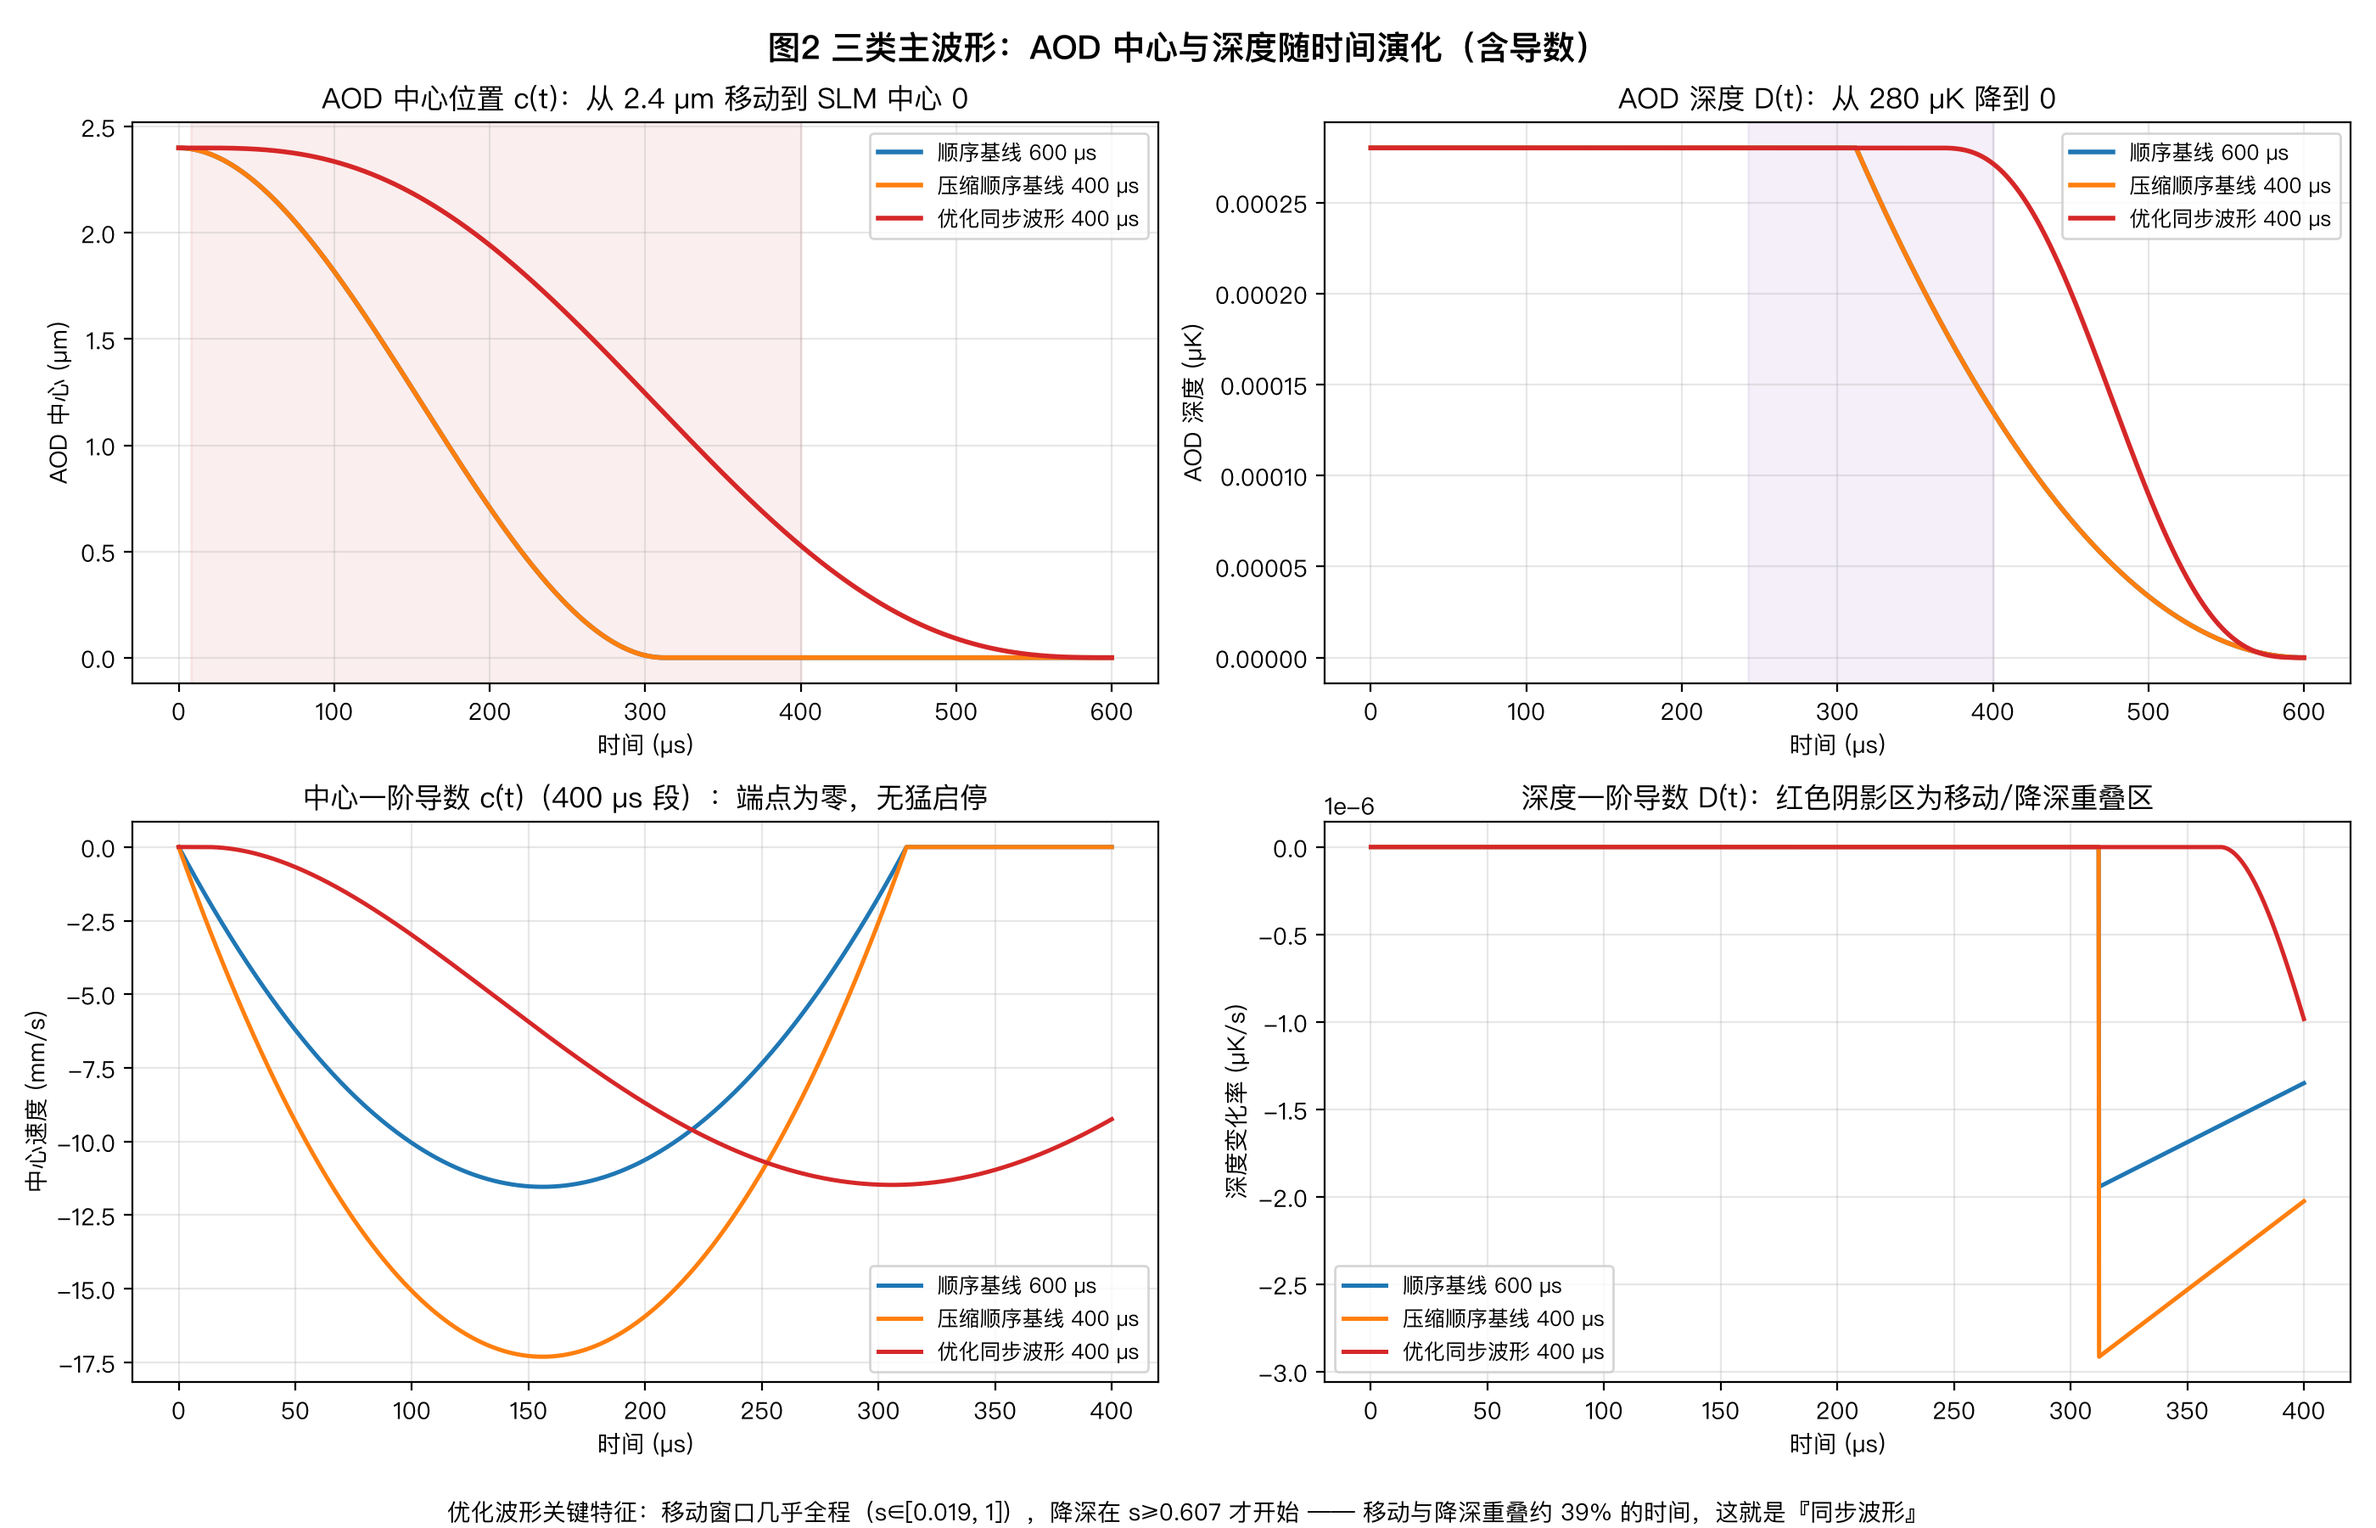
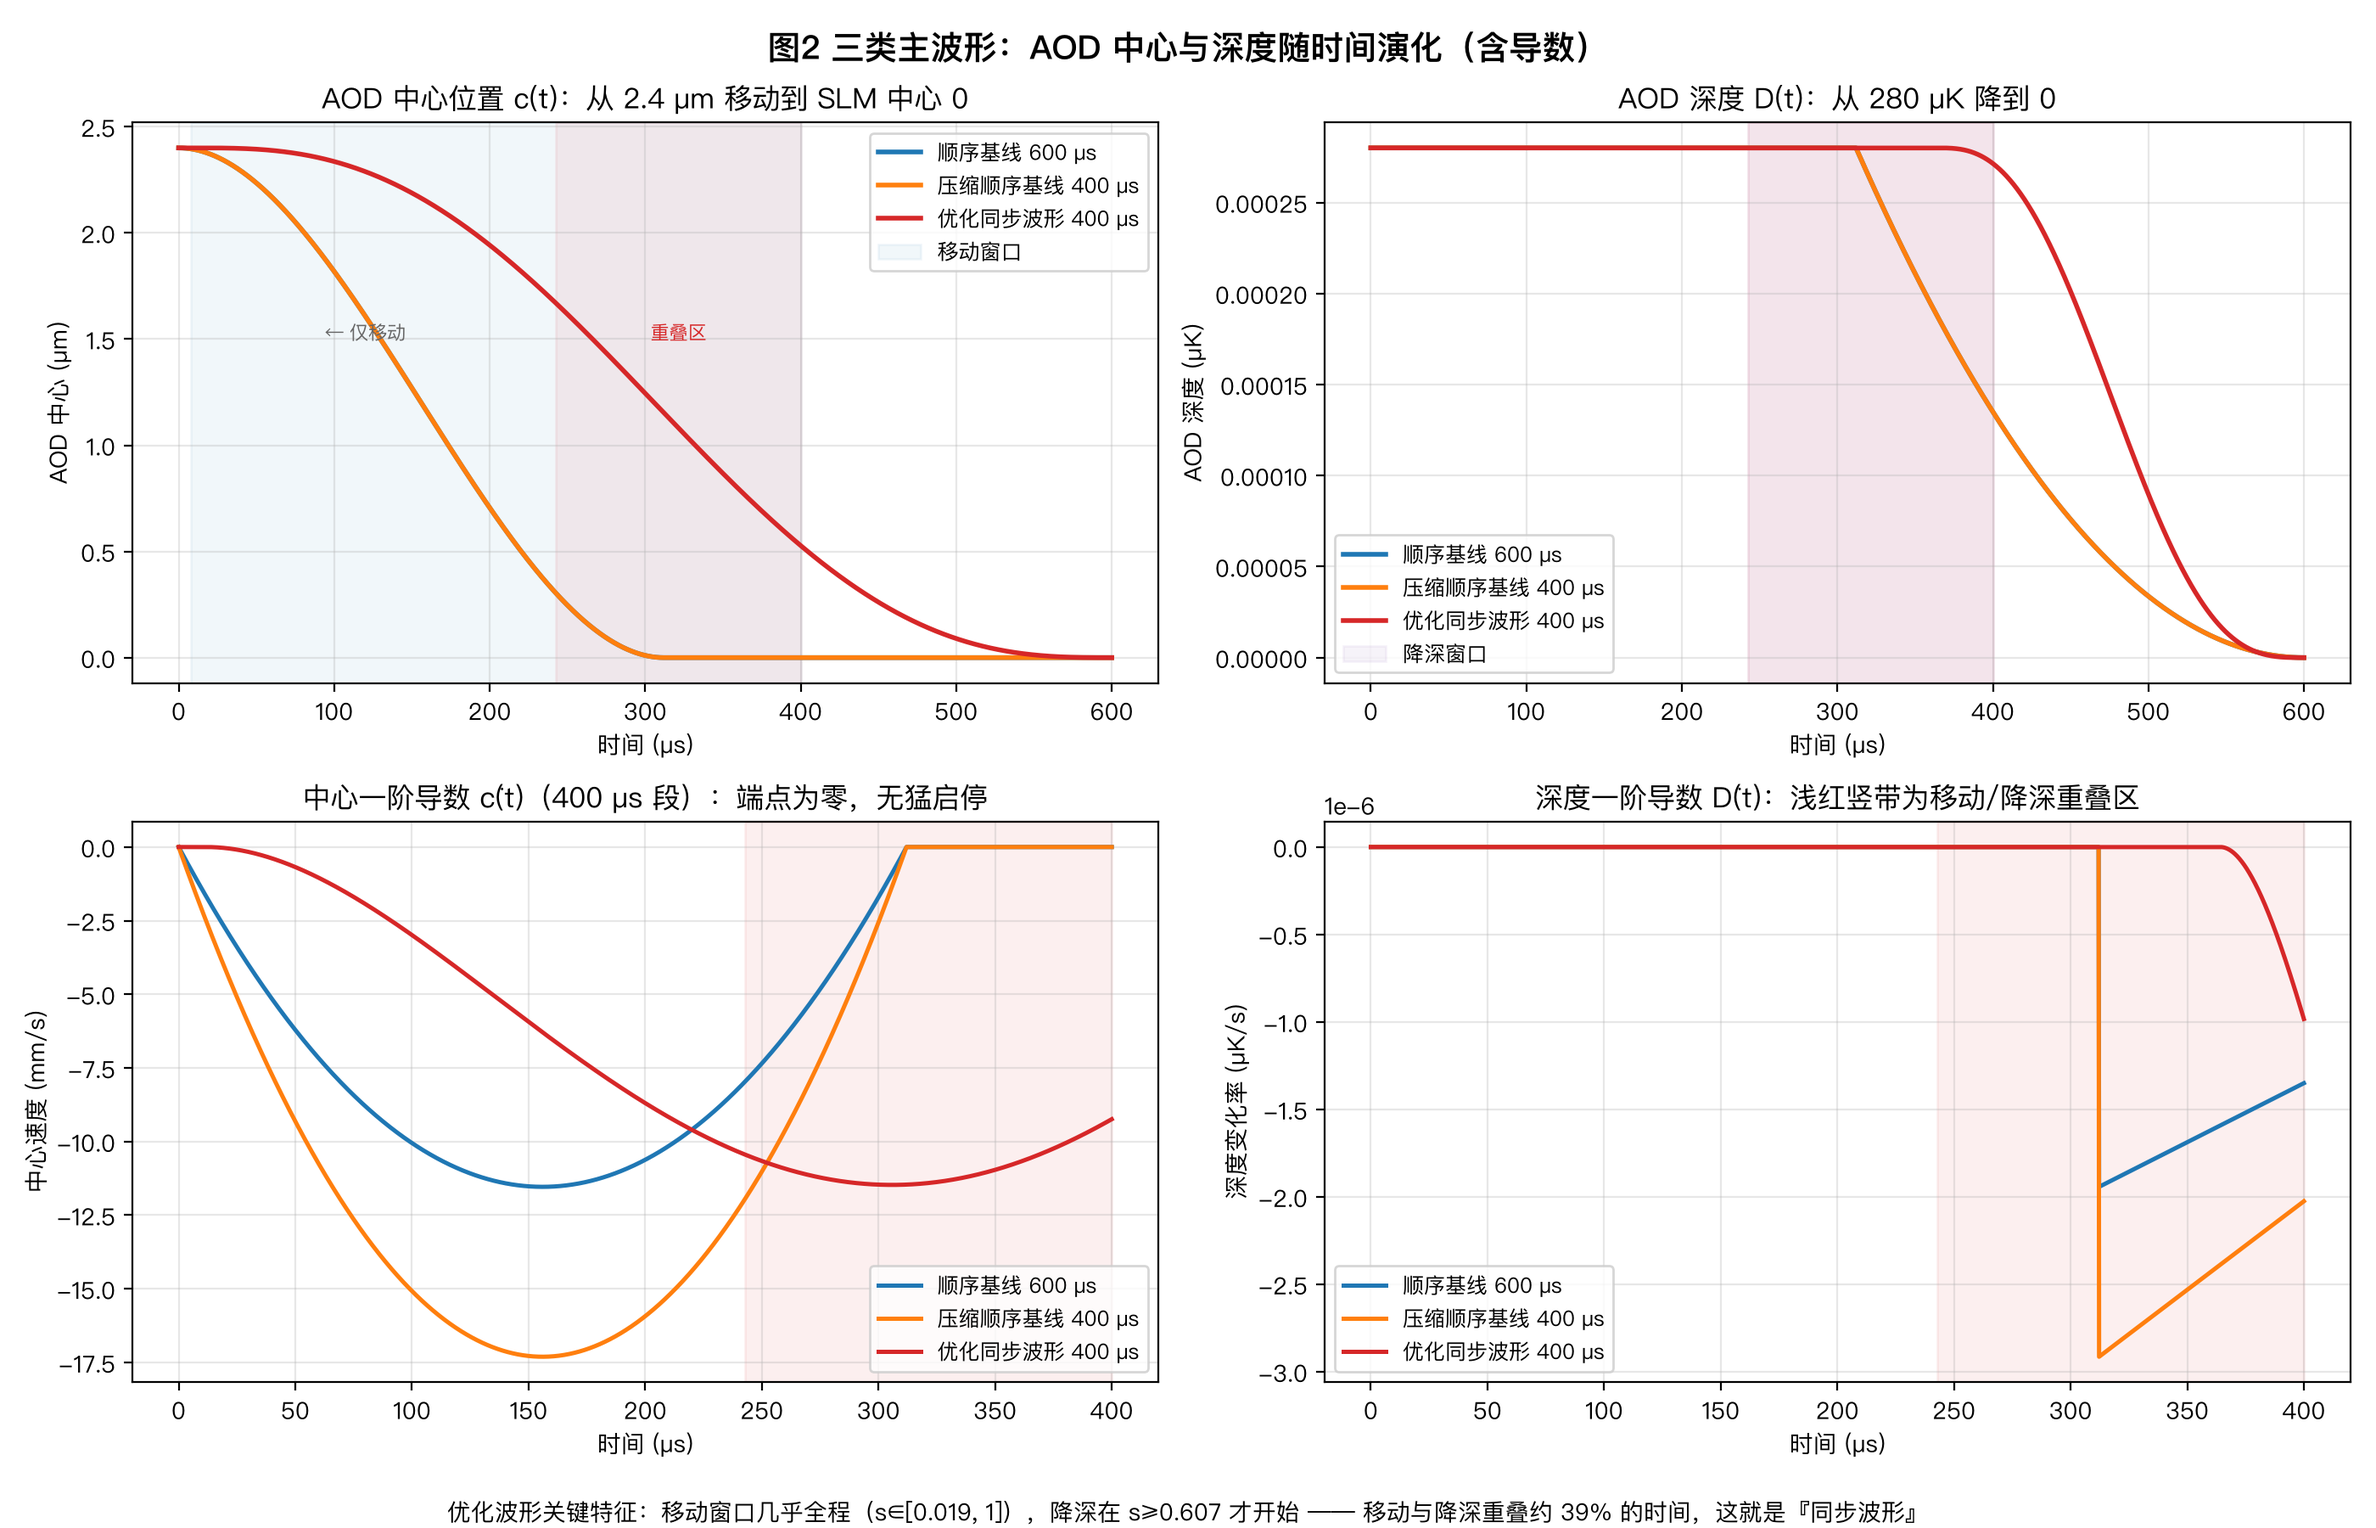
Refine Level 2 figures: LHS candidate counts, move/ramp window shading, overlap region labels; regenerate affected PNGs

diff --git a/visualize_level2.py b/visualize_level2.py
@@ -102,13 +102,16 @@ def fig1_pipeline(data: dict, out: Path):
     counts = metrics.get("optimization") or {}
     val = metrics["validation"]["summaries"]
     frozen = data["frozen"]
+    lhs_n = sum(1 for r in data["candidates"] if r["candidate_id"].startswith("lhs_"))
+    later_n = counts.get("total", 0) - lhs_n
 
     boxes = [
         (0.3, 7.6, "① 预检查 preflight\n10 项数值自检\n(静态极限/功-能/步长收敛…)",
          f"全部通过\n耗时 {data['preflight'].get('elapsed_s', 0):.0f} s"),
         (2.75, 7.6, "② 阶段1 候选探索\noptimization_pool 128 shots\n拉丁超立方 + dt=0.10 μs",
-         f"评估 {counts.get('total', '?')} 个候选\n有效 {counts.get('ok', '?')} / "
-         f"无效 {counts.get('invalid', '?')} / 失败 {counts.get('failed', '?')}"),
+         f"LHS 探索 {lhs_n} 候选\n后续入围/精修/样条 {max(later_n, 0)} 候选\n"
+         f"（有效 {counts.get('ok', '?')} / 无效 {counts.get('invalid', '?')}"
+         f" / 失败 {counts.get('failed', '?')}）"),
         (5.2, 7.6, "③ 阶段2 精修与选择\nselection_pool 512 shots\ndt=0.05 μs + PCHIP 样条",
          "唯一最终波形冻结\n→ best_waveform.yaml"),
         (7.65, 7.6, "④ 独立验证 validation_pool\n2000 shots × 3 波形\n同一初态数组(CRN)",
@@ -191,7 +194,7 @@ def fig2_waveforms(data: dict, out: Path):
         ax.plot(t_us[t_us <= 600], w[f"{name}_aod_center_um"][t_us <= 600],
                 color=WF_COLOR[name], label=WF_LABEL[name], lw=2)
     ax.axvspan(frozen["move_start_fraction"] * 400, frozen["move_end_fraction"] * 400,
-               color="#d62728", alpha=0.08)
+               color="#1f77b4", alpha=0.06, label="移动窗口")
     ax.set_xlabel("时间 (μs)")
     ax.set_ylabel("AOD 中心 (μm)")
     ax.set_title("AOD 中心位置 c(t)：从 2.4 μm 移动到 SLM 中心 0")
@@ -201,7 +204,8 @@ def fig2_waveforms(data: dict, out: Path):
     for name in WAVEFORMS:
         ax.plot(t_us[t_us <= 600], w[f"{name}_aod_depth_uK"][t_us <= 600],
                 color=WF_COLOR[name], label=WF_LABEL[name], lw=2)
-    ax.axvspan(frozen["ramp_start_fraction"] * 400, 400, color="#9467bd", alpha=0.10)
+    ax.axvspan(frozen["ramp_start_fraction"] * 400, frozen["ramp_end_fraction"] * 400,
+               color="#9467bd", alpha=0.08, label="降深窗口")
     ax.set_xlabel("时间 (μs)")
     ax.set_ylabel("AOD 深度 (μK)")
     ax.set_title("AOD 深度 D(t)：从 280 μK 降到 0")
@@ -223,11 +227,18 @@ def fig2_waveforms(data: dict, out: Path):
                 color=WF_COLOR[name], label=WF_LABEL[name], lw=1.8)
     ax.set_xlabel("时间 (μs)")
     ax.set_ylabel("深度变化率 (μK/s)")
-    ax.set_title("深度一阶导数 Ḋ(t)：红色阴影区为移动/降深重叠区")
     ax.legend(fontsize=9)
 
     ov = max(0.0, min(frozen["move_end_fraction"], frozen["ramp_end_fraction"])
              - max(frozen["move_start_fraction"], frozen["ramp_start_fraction"]))
+    ov_t0 = max(frozen["move_start_fraction"], frozen["ramp_start_fraction"]) * 400
+    ov_t1 = min(frozen["move_end_fraction"], frozen["ramp_end_fraction"]) * 400
+    for ax in axes.flat:
+        ax.axvspan(ov_t0, ov_t1, color="#d62728", alpha=0.07, zorder=0)
+    axes[0, 0].text((ov_t0 + ov_t1) / 2, 1.5, "重叠区", ha="center", fontsize=8,
+                    color="#d62728")
+    axes[0, 0].text(120, 1.5, "← 仅移动", ha="center", fontsize=8, color="#666")
+    axes[1, 1].set_title("深度一阶导数 Ḋ(t)：浅红竖带为移动/降深重叠区")
     fig.text(0.5, 0.005,
              f"优化波形关键特征：移动窗口几乎全程（s∈[{
                  frozen['move_start_fraction']:.3f}, 1]），降深在 s≥"
@@ -359,22 +370,22 @@ def fig5_validation(data: dict, out: Path):
     fig.suptitle("图5 独立验证（validation_pool, 2000 shots, 三波形共用同一初态）",
                  fontsize=14, fontweight="bold")
 
-    # (a) 俘获率 + Wilson CI
+    # (a) 俘获率 + Wilson CI：三波形均 1.0，改为展示更有信息量的 CI 下限柱
     ax = fig.add_subplot(gs[0, 0])
     for i, name in enumerate(WAVEFORMS):
         s = metrics["validation"]["summaries"][name]
-        ax.errorbar(i, s["capture_fraction"],
-                    yerr=[[max(0.0, s["capture_fraction"] - s["wilson_low"])],
-                          [max(0.0, s["wilson_high"] - s["capture_fraction"])]],
-                    fmt="o", ms=9, capsize=6, color=WF_COLOR[name])
-        ax.annotate(f"{s['capture_fraction']:.4f}", (i, s["capture_fraction"]),
-                    textcoords="offset points", xytext=(12, 4), fontsize=9)
+        lo = s["wilson_low"]
+        ax.bar(i, 1.0 - lo, bottom=lo, width=0.55, color=WF_COLOR[name], alpha=0.85)
+        ax.annotate(f"{s['captured']}/{s['shots']}\nCI 下限 {lo:.4f}", (i, lo),
+                    textcoords="offset points", xytext=(0, 8), fontsize=8,
+                    ha="center", color="#333")
     ax.axhline(1.0, color="gray", ls="--", lw=1)
+    ax.text(2.42, 1.0, " 1.0", va="center", fontsize=8, color="gray")
     ax.set_xticks(range(3))
     ax.set_xticklabels([WF_LABEL[n] for n in WAVEFORMS], rotation=12, fontsize=8.5)
-    ax.set_ylim(0.99, 1.001)
-    ax.set_ylabel("俘获率")
-    ax.set_title("(a) 俘获率与 Wilson 95% CI：三者重叠，无显著差异")
+    ax.set_ylim(0.9975, 1.002)
+    ax.set_ylabel("俘获率（柱体 = Wilson 95% CI 范围）")
+    ax.set_title("(a) 俘获率 1.0000，最坏 CI 下限 0.9981：三波形无显著差异")
 
     # (b) 配对计数
     ax = fig.add_subplot(gs[0, 1])
@@ -575,23 +586,32 @@ def fig8_preflight(data: dict, out: Path):
     ax.axis("off")
     ax.set_title("图8 Preflight 预检查：10 项数值自检，全部通过才允许开始优化",
                  fontsize=14, fontweight="bold")
+    # 键名必须与 preflight.json 实际字段一致；waveform_constraints / ideal_runs
+    # 无顶层 passed 字段，需从子项汇总。
     describe = {
-        "existing_tests": "运行现有 Level 0/1 测试套件",
-        "static_limit": "时变积分器在静态极限下与 Level 0 一致",
-        "level1_reproduction": "固定种子复现 Level 1 sequential_600us",
-        "waveform_constraints": "三类波形端点/范围/单调性/导数检查",
-        "ideal_runs": "理想初态 (x₀=c_AOD, v₀=0) 下运行三波形",
-        "ideal_work_energy": "理想轨迹功-能平衡残差 < 5e-4",
-        "ideal_convergence": "步长 0.05→0.025 μs 二阶收敛",
-        "mc_dt_paired": "128 shots 配对步长检查（标签不一致率 ≤ 2%）",
-        "mc_work_energy": "MC 子集功-能残差中位数 < 1e-3",
-        "hold_segment": "100 μs 纯 SLM 保持段能量误差有界",
+        "existing_tests": ("existing_tests", "运行现有 Level 0/1 测试套件"),
+        "static_limit": ("static_limit", "时变积分器在静态极限下与 Level 0 一致"),
+        "level1_reproduction": ("level1_reproduction", "固定种子复现 Level 1 sequential_600us"),
+        "waveform_constraints": ("waveform_constraints", "三类波形端点/范围/单调性/导数检查"),
+        "ideal_runs": ("ideal_runs", "理想初态 (x₀=c_AOD, v₀=0) 下运行三波形"),
+        "ideal_work_energy": ("ideal_work_energy", "理想轨迹功-能平衡残差 < 5e-4"),
+        "ideal_timestep_convergence": ("ideal_timestep_convergence", "步长 0.05→0.025 μs 二阶收敛"),
+        "mc_timestep_paired": ("mc_timestep_paired", "128 shots 配对步长检查（标签不一致率 ≤ 2%）"),
+        "mc_work_energy_residual": ("mc_work_energy_residual", "MC 子集功-能残差中位数 < 1e-3"),
+        "hold_segment": ("hold_segment", "100 μs 纯 SLM 保持段能量误差有界"),
     }
     rows = []
-    for key, desc in describe.items():
+    for key, desc in describe.values():
         entry = pf.get(key, {})
         if isinstance(entry, bool):
             passed, detail = entry, ""
+        elif key == "waveform_constraints":
+            passed = bool(pf.get("waveform_constraints_all_valid",
+                                 all(v.get("valid", False) for v in entry.values())))
+            detail = "三波形均满足约束"
+        elif key == "ideal_runs":
+            passed = all(v.get("captured", False) for v in entry.values())
+            detail = "三波形理想轨迹均被 SLM 俘获"
         else:
             passed = bool(entry.get("passed", False))
             detail = entry.get("summary_line", "")
